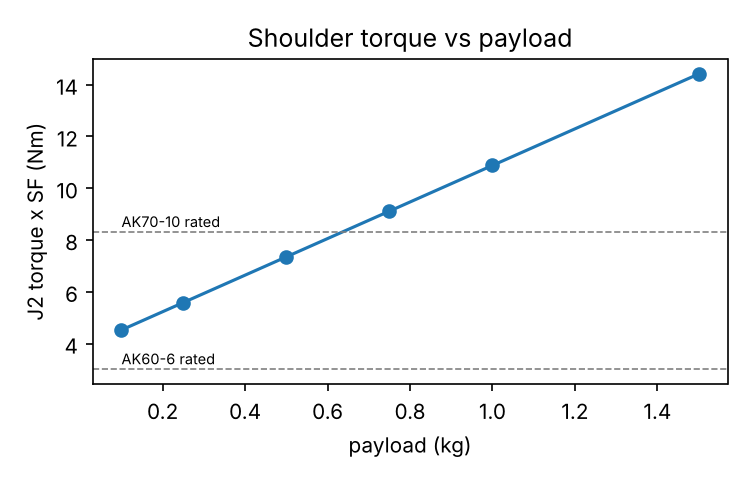
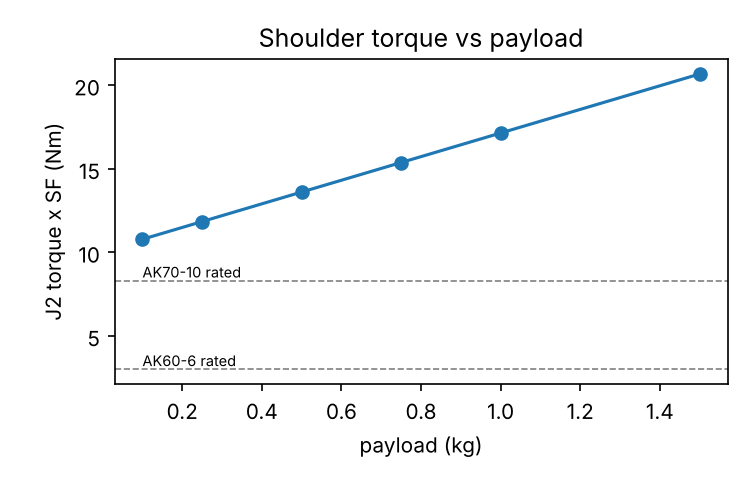
Switch to integrated-driver modules: AKH70-16 for J1-J3, AK45-36 V3 for the wrist

diff --git a/analysis/run_analysis.py b/analysis/run_analysis.py
@@ -19,7 +19,11 @@ ROOT = os.path.join(os.path.dirname(__file__), "..")
 IMG = os.path.join(ROOT, "docs", "img")
 os.makedirs(IMG, exist_ok=True)
 SF = 1.5
-LOW_BACKLASH = {2: 10, 3: 10}   # arcmin limit for the big joints (that is where it hurts)
+MAX_BACKLASH = 12   # arcmin, for joints that move the tip (J1-J5)
+# Chosen by hand: the hollow-shaft AKH70-16 has dual 21-bit encoders (one on the
+# output side), 3x torque margin and a 7 mm bore for cables. The wrist is picked
+# by the search below (lightest module that is strong enough and low backlash).
+PREFERRED = {1: "CubeMars AKH70-16", 2: "CubeMars AKH70-16", 3: "CubeMars AKH70-16"}
 ALPHA = 5.0
 JOINTS = ["J1", "J2", "J3", "J4", "J5", "J6"]
 
@@ -33,11 +37,11 @@ def workspace(n=60_000, seed=0):
 
 
 def pick(need_rated, need_peak, max_backlash=None):
-    """Lightest actuator whose rated torque covers the holding need and whose
-    peak torque covers the static+dynamic need. With max_backlash set, only
-    actuators with a known backlash at or below it (arcmin) are considered."""
+    """Lightest module with an integrated driver whose rated torque covers the
+    holding need and whose peak torque covers the static+dynamic need. With
+    max_backlash set, only parts with a known backlash at or below it (arcmin)."""
     ok = [(v["mass"], k) for k, v in ACTUATORS.items()
-          if v["rated"] >= need_rated and v["peak"] >= need_peak
+          if v["driver"] and v["rated"] >= need_rated and v["peak"] >= need_peak
           and (max_backlash is None
                or (v["backlash"] is not None and v["backlash"] <= max_backlash))]
     return min(ok)[1] if ok else "none in table"
@@ -46,12 +50,14 @@ def pick(need_rated, need_peak, max_backlash=None):
 def select_actuators(g, payload=0.5, iters=8):
     """Pick actuators for J2..J5, feed their masses back into the model and
     repeat until the choice stops changing (heavier motor -> more load)."""
-    choice = {}
+    choice = dict(PREFERRED)
     for _ in range(iters):
         mass = {j: ACTUATORS[c]["mass"] for j, c in choice.items() if c in ACTUATORS}
         comps = build_components(g, payload=payload, act_mass=mass)
         st, sd, _ = dyn.worst_case(n=4000, alpha=ALPHA, comps=comps, seed=7)
-        new = {j + 1: pick(st[j] * SF, sd[j] * SF, LOW_BACKLASH.get(j + 1)) for j in range(1, 6)}
+        new = dict(PREFERRED)
+        for j in range(3, 6):    # J4..J6
+            new[j + 1] = pick(st[j] * SF, sd[j] * SF, MAX_BACKLASH if j < 5 else None)
         if new == choice:
             break
         choice = new
@@ -69,7 +75,7 @@ def main():
                "approximate, see `analysis/actuators.py`.\n")
     out.append(f"- Geometry: d1={g.d1*1e3:.0f} mm, a2={g.a2*1e3:.0f} mm, d4={g.d4*1e3:.0f} mm, "
                f"d6={g.d6*1e3:.0f} mm  ->  max reach from shoulder {1e3*(g.a2+g.d4+g.d6):.0f} mm")
-    out.append(f"- Backlash requirement: J2 and J3 must have a known backlash of at most {LOW_BACKLASH[2]} arcmin")
+    out.append(f"- Only modules with an integrated driver are considered; J1-J5 need a known backlash of at most {MAX_BACKLASH} arcmin")
     out.append(f"- Total moving mass in the model: {dyn.total_mass(comps):.2f} kg "
                f"(payload {[c.mass for c in comps if c.name=='payload'][0]} kg)\n")
 
@@ -80,12 +86,14 @@ def main():
                f"and a local refinement. Dynamic = static + M(q)*alpha with alpha = {ALPHA} rad/s^2 "
                f"on every joint, safety factor {SF}. Actuator masses were fed back into the model "
                f"until the selection stopped changing.\n")
-    out.append("| Joint | static (Nm) | static+dyn (Nm) | rated needed (Nm) | peak needed (Nm) | lightest candidate |")
-    out.append("|---|---|---|---|---|---|")
+    out.append("| Joint | static (Nm) | static+dyn (Nm) | rated needed (Nm) | peak needed (Nm) | actuator | rated margin |")
+    out.append("|---|---|---|---|---|---|---|")
     for j in range(6):
         need_rated, need_peak = st[j] * SF, sd[j] * SF
-        cand = choice[j + 1] if j in (1, 2, 3, 4) else "not sized (needs link inertia)"
-        out.append(f"| {JOINTS[j]} | {st[j]:.2f} | {sd[j]:.2f} | {need_rated:.2f} | {need_peak:.2f} | {cand} |")
+        cand = choice[j + 1]
+        rated = ACTUATORS[cand]["rated"]
+        margin = f"{rated / need_rated:.1f}x" if need_rated > 0.05 else "n/a (point-mass model)"
+        out.append(f"| {JOINTS[j]} | {st[j]:.2f} | {sd[j]:.2f} | {need_rated:.2f} | {need_peak:.2f} | {cand} | {margin} |")
     out.append("")
     out.append("J1 and J6 are listed from the point-mass model only: link rotational inertia "
                "is ignored, so their numbers are a lower bound. J1 also sees the whole arm's inertia "
@@ -100,12 +108,12 @@ def main():
     out.append("Full backlash range of each joint turned into TCP displacement (mm) with the "
                "position Jacobian, over 3000 random poses plus the stretched-out pose. "
                f"Joints without a datasheet figure use an assumed {ASSUMED_BACKLASH_ARCMIN} arcmin "
-               "(marked *). J1 uses the same part as J2.\n")
+               "(marked *).\n")
     out.append("| Joint | actuator | backlash (arcmin) | stretched pose (mm) | worst pose (mm) | median (mm) |")
     out.append("|---|---|---|---|---|---|")
     for j in range(6):
-        name = choice.get(j + 1) or ("(same as J2)" if j == 0 else "n/a")
-        known = ACTUATORS.get(choice.get(j + 1) or choice.get(2), {}).get("backlash") is not None
+        name = choice.get(j + 1) or "n/a"
+        known = ACTUATORS.get(choice.get(j + 1), {}).get("backlash") is not None
         out.append(f"| {JOINTS[j]} | {name} | {bl[j]:.0f}{'' if known else '*'} | "
                    f"{sm['stretched'][j]:.2f} | {sm['per_joint_max'][j]:.2f} | {sm['per_joint_median'][j]:.2f} |")
     out.append("")

diff --git a/analysis/actuators.py b/analysis/actuators.py
@@ -1,25 +1,35 @@
-"""Candidate actuators.
+"""Candidate actuators (ready-to-use modules with integrated driver unless noted).
 
 rated = continuous torque, peak = short bursts (Nm), mass in kg,
-backlash in arcmin (None = I don't have a figure).
-`checked`: True means the numbers were cross-checked on vendor/retailer pages,
-False means from memory. Verify everything against the current CubeMars
-datasheet before ordering.
+backlash in arcmin (None = no figure found), driver = driver board inside,
+encoders = what the listings say.
+
+Sources: CubeMars catalogue screenshots (size, weight, peak torque) plus
+retailer listings for the rest. Backlash and rated torque often come from a
+single retailer page, so treat every row as "to be confirmed on the datasheet".
 """
 ACTUATORS = {
-    # low-backlash family, figures from CubeMars/retailer pages
-    "CubeMars AKE80-8":  {"rated": 12.0, "peak": 30.0, "mass": 0.57, "backlash": 9, "checked": True},
-    "CubeMars AKE60-8":  {"rated": 5.0,  "peak": 12.5, "mass": 0.26, "backlash": 9, "checked": True},
-    # older AK series, from memory, backlash not looked up for these ratios
-    "CubeMars AK60-6":   {"rated": 3.0,  "peak": 9.0,  "mass": 0.29, "backlash": None, "checked": False},
-    "CubeMars AK70-10":  {"rated": 8.3,  "peak": 24.8, "mass": 0.52, "backlash": None, "checked": False},
-    "CubeMars AK80-9":   {"rated": 9.0,  "peak": 18.0, "mass": 0.49, "backlash": None, "checked": False},
-    "CubeMars AK10-9":   {"rated": 18.0, "peak": 53.0, "mass": 0.96, "backlash": None, "checked": False},
-    # Dynamixel: stall torque at 12 V used as "peak"; continuous is much lower
-    "Dynamixel XM430-W350": {"rated": 1.4, "peak": 4.1, "mass": 0.082, "backlash": None, "checked": False},
-    "Dynamixel XL430-W250": {"rated": 0.5, "peak": 1.5, "mass": 0.057, "backlash": None, "checked": False},
+    # --- hollow-shaft planetary, dual 21-bit encoders, integrated driver ----
+    "CubeMars AKH70-16": {"rated": 26.0, "peak": 78.0, "mass": 0.879, "backlash": 12,
+                          "driver": True, "encoders": "2x 21-bit (motor + output)", "bore_mm": 7},
+    "CubeMars AKH70-48": {"rated": 74.0, "peak": 222.0, "mass": 1.396, "backlash": None,
+                          "driver": True, "encoders": "?", "bore_mm": 7},
+    # --- AK V3 small, dual encoders, integrated driver ------------------------
+    "CubeMars AK45-36 V3": {"rated": 8.0, "peak": 24.0, "mass": 0.349, "backlash": 12,
+                            "driver": True, "encoders": "2x 16-bit (motor + output)", "bore_mm": 0},
+    "CubeMars AK80-8 KV60": {"rated": 10.0, "peak": 25.0, "mass": 0.57, "backlash": 22.8,
+                             "driver": True, "encoders": "14-bit + 15-bit", "bore_mm": 0},
+    # --- AKA series, single encoder ------------------------------------------
+    "CubeMars AKA60-6": {"rated": 3.0, "peak": 9.0, "mass": 0.46, "backlash": 12,
+                         "driver": True, "encoders": "1 (single)", "bore_mm": 0},
+    "CubeMars AKA10-9": {"rated": 18.0, "peak": 53.0, "mass": 1.06, "backlash": None,
+                         "driver": True, "encoders": "1 (single)", "bore_mm": 0},
+    # --- AKE: lowest backlash but sold WITHOUT driver, so not auto-selected ----
+    "CubeMars AKE80-8": {"rated": 12.0, "peak": 30.0, "mass": 0.57, "backlash": 9,
+                         "driver": False, "encoders": "motor side only (via driver)", "bore_mm": 0},
+    "CubeMars AKE60-8": {"rated": 5.0, "peak": 12.5, "mass": 0.26, "backlash": 9,
+                         "driver": False, "encoders": "?", "bore_mm": 0},
 }
 
 # Used by the error budget when a chosen actuator has no backlash figure.
-# 15 arcmin (0.25 deg) is a guess for small servo gearboxes, not a datasheet value.
 ASSUMED_BACKLASH_ARCMIN = 15

diff --git a/analysis/error_budget.py b/analysis/error_budget.py
@@ -23,11 +23,10 @@ ARCMIN = np.pi / (180 * 60)
 
 
 def backlash_arcmin(choice):
-    """choice: {joint number: actuator name}. J1 is not in the moving-mass
-    selection, so it defaults to the same part as J2."""
+    """choice: {joint number: actuator name}."""
     out = []
     for j in range(1, 7):
-        name = choice.get(j) or choice.get(2)
+        name = choice.get(j)
         b = ACTUATORS.get(name, {}).get("backlash")
         out.append(ASSUMED_BACKLASH_ARCMIN if b is None else b)
     return np.array(out, dtype=float)

diff --git a/docs/results.md b/docs/results.md
@@ -3,21 +3,21 @@
 Design assumptions come from `analysis/params.py`. Actuator numbers are approximate, see `analysis/actuators.py`.
 
 - Geometry: d1=120 mm, a2=200 mm, d4=180 mm, d6=100 mm  ->  max reach from shoulder 480 mm
-- Backlash requirement: J2 and J3 must have a known backlash of at most 10 arcmin
-- Total moving mass in the model: 1.97 kg (payload 0.5 kg)
+- Only modules with an integrated driver are considered; J1-J5 need a known backlash of at most 12 arcmin
+- Total moving mass in the model: 3.73 kg (payload 0.5 kg)
 
 ## Worst-case joint torque
 
 Random search of 30 000 poses inside the joint limits plus the stretched-out pose and a local refinement. Dynamic = static + M(q)*alpha with alpha = 5.0 rad/s^2 on every joint, safety factor 1.5. Actuator masses were fed back into the model until the selection stopped changing.
 
-| Joint | static (Nm) | static+dyn (Nm) | rated needed (Nm) | peak needed (Nm) | lightest candidate |
-|---|---|---|---|---|---|
-| J1 | 0.00 | 1.15 | 0.00 | 1.72 | not sized (needs link inertia) |
-| J2 | 4.90 | 6.56 | 7.35 | 9.84 | CubeMars AKE80-8 |
-| J3 | 2.27 | 3.15 | 3.40 | 4.72 | CubeMars AKE60-8 |
-| J4 | 0.59 | 0.79 | 0.88 | 1.19 | Dynamixel XM430-W350 |
-| J5 | 0.59 | 0.85 | 0.88 | 1.28 | Dynamixel XM430-W350 |
-| J6 | 0.00 | 0.00 | 0.00 | 0.00 | not sized (needs link inertia) |
+| Joint | static (Nm) | static+dyn (Nm) | rated needed (Nm) | peak needed (Nm) | actuator | rated margin |
+|---|---|---|---|---|---|---|
+| J1 | 0.00 | 1.82 | 0.00 | 2.73 | CubeMars AKH70-16 | n/a (point-mass model) |
+| J2 | 9.07 | 11.67 | 13.61 | 17.50 | CubeMars AKH70-16 | 1.9x |
+| J3 | 3.61 | 4.85 | 5.41 | 7.28 | CubeMars AKH70-16 | 4.8x |
+| J4 | 0.59 | 0.79 | 0.88 | 1.19 | CubeMars AK45-36 V3 | 9.1x |
+| J5 | 0.59 | 0.85 | 0.88 | 1.28 | CubeMars AK45-36 V3 | 9.1x |
+| J6 | 0.00 | 0.00 | 0.00 | 0.00 | CubeMars AK45-36 V3 | n/a (point-mass model) |
 
 J1 and J6 are listed from the point-mass model only: link rotational inertia is ignored, so their numbers are a lower bound. J1 also sees the whole arm's inertia about the vertical axis, so treat these two rows as a minimum, not a size.
 
@@ -25,18 +25,18 @@ Rule used: the *rated* (continuous) torque must cover the static holding torque 
 
 ## Tip error from gear backlash
 
-Full backlash range of each joint turned into TCP displacement (mm) with the position Jacobian, over 3000 random poses plus the stretched-out pose. Joints without a datasheet figure use an assumed 15 arcmin (marked *). J1 uses the same part as J2.
+Full backlash range of each joint turned into TCP displacement (mm) with the position Jacobian, over 3000 random poses plus the stretched-out pose. Joints without a datasheet figure use an assumed 15 arcmin (marked *).
 
 | Joint | actuator | backlash (arcmin) | stretched pose (mm) | worst pose (mm) | median (mm) |
 |---|---|---|---|---|---|
-| J1 | (same as J2) | 9 | 1.26 | 1.26 | 0.37 |
-| J2 | CubeMars AKE80-8 | 9 | 1.26 | 1.26 | 0.79 |
-| J3 | CubeMars AKE60-8 | 9 | 0.73 | 0.73 | 0.64 |
-| J4 | Dynamixel XM430-W350 | 15* | 0.00 | 0.44 | 0.36 |
-| J5 | Dynamixel XM430-W350 | 15* | 0.44 | 0.44 | 0.44 |
-| J6 | Dynamixel XL430-W250 | 15* | 0.00 | 0.00 | 0.00 |
+| J1 | CubeMars AKH70-16 | 12 | 1.68 | 1.68 | 0.50 |
+| J2 | CubeMars AKH70-16 | 12 | 1.68 | 1.68 | 1.05 |
+| J3 | CubeMars AKH70-16 | 12 | 0.98 | 0.98 | 0.85 |
+| J4 | CubeMars AK45-36 V3 | 12 | 0.00 | 0.35 | 0.29 |
+| J5 | CubeMars AK45-36 V3 | 12 | 0.35 | 0.35 | 0.35 |
+| J6 | CubeMars AK45-36 V3 | 12 | 0.00 | 0.00 | 0.00 |
 
-All joints combined: worst case (all at the limit, same direction) 3.8 mm, root-sum-square worst 2.0 mm, median 1.2 mm (full range, so roughly half of that as +/- around the commanded position).
+All joints combined: worst case (all at the limit, same direction) 4.7 mm, root-sum-square worst 2.6 mm, median 1.5 mm (full range, so roughly half of that as +/- around the commanded position).
 
 Backlash alone does not meet a 0.5 mm goal, which is why the plan relies on camera feedback for the last step. Link deflection is not in this table yet.
 
@@ -44,12 +44,12 @@ Backlash alone does not meet a 0.5 mm goal, which is why the plan relies on came
 
 | payload (kg) | J2 (Nm) | J3 (Nm) |
 |---|---|---|
-| 0.1 | 4.52 | 1.75 |
-| 0.25 | 5.58 | 2.37 |
-| 0.5 | 7.35 | 3.40 |
-| 0.75 | 9.11 | 4.43 |
-| 1.0 | 10.88 | 5.46 |
-| 1.5 | 14.41 | 7.52 |
+| 0.1 | 10.79 | 3.76 |
+| 0.25 | 11.84 | 4.38 |
+| 0.5 | 13.61 | 5.41 |
+| 0.75 | 15.38 | 6.44 |
+| 1.0 | 17.14 | 7.47 |
+| 1.5 | 20.67 | 9.53 |
 
 ## Workspace and singularities
 

diff --git a/README.md b/README.md
@@ -27,27 +27,29 @@ I wanted one project that covers the whole chain: mechanical design, motor selec
 | Reach | 480 mm from the shoulder (xArm 7 is 700 mm, I went smaller on purpose, see below) |
 | Payload | 0.5 kg plus a 0.2 kg gripper |
 | Repeatability goal | ≲ 0.5 mm, helped by camera feedback |
-| Big joints (J1–J3) | CubeMars AKE80-8 (J1, J2), AKE60-8 (J3): ~9 arcmin backlash |
-| Wrist (J4–J6) | small, light actuators (Dynamixel-class) |
+| J1–J3 | CubeMars AKH70-16 (hollow shaft, integrated driver, dual 21-bit encoders, ~12 arcmin) |
+| Wrist (J4–J6) | CubeMars AK45-36 V3 (integrated driver, dual encoders, ~12 arcmin) |
 | Sensing | wrist camera + AprilTags on the workspace and tools |
 
 Why not 700 mm: the shoulder torque goes up 2–3x with that reach, which means heavier motors, which load the shoulder even more. A bench-top wet lab doesn't need it, and shorter is stiffer.
 
 ## Current numbers
 
-Full tables and plots are in [`docs/results.md`](docs/results.md), generated by `analysis/run_analysis.py`. Summary for the 0.5 kg case (1.5x safety factor, 5 rad/s² acceleration):
+Full tables and plots are in [`docs/results.md`](docs/results.md), generated by `analysis/run_analysis.py`. Summary for the 0.5 kg case (1.5x safety factor, 5 rad/s² acceleration). Only modules with an integrated driver are considered:
 
-| Joint | needs rated | needs peak | pick |
-|---|---|---|---|
-| J2 shoulder | 7.4 Nm | 9.8 Nm | AKE80-8 (12 / 30 Nm) |
-| J3 elbow | 3.4 Nm | 4.7 Nm | AKE60-8 (5 / 12.5 Nm) |
-| J4, J5 | 0.9 Nm | 1.2–1.3 Nm | XM430-class |
+| Joint | needs rated | needs peak | pick | rated margin |
+|---|---|---|---|---|
+| J2 shoulder | 13.6 Nm | 17.5 Nm | AKH70-16 (26 / 78 Nm) | 1.9x |
+| J3 elbow | 5.4 Nm | 7.3 Nm | AKH70-16 | 4.8x |
+| J4, J5 | 0.9 Nm | 1.2–1.3 Nm | AK45-36 V3 (8 / 24 Nm) | 9x |
 
-J2 and J3 are picked from the low-backlash CubeMars AKE family (about 9 arcmin). Rated torque margin is about 60 % at the shoulder and 45 % at the elbow.
+Why the AKH70-16 for the big joints: output-side encoder, hollow 7 mm bore for cables, integrated driver, and plenty of torque. The price is weight: the model's total moving mass went from about 2.0 kg to 3.7 kg, and the shoulder load roughly doubled compared to my first lightweight pick. That is the trade-off I'm keeping an eye on. J3 could drop to an AK45-36 V3 (349 g instead of 879 g, rated margin about 1.5x) if the shoulder gets tight.
+
+Earlier I considered the AKE series (about 9 arcmin) but it is sold without a driver, so it needs a separate driver board per joint. Not worth the extra wiring for 3 arcmin.
 
 ## Backlash and tip error
 
-9 arcmin at the shoulder is about 1.3 mm at the tip with the arm stretched out. Adding all joints, the worst case is a few mm, the typical case about 1 mm (full range, see `docs/results.md`). That alone doesn't reach the 0.5 mm goal, so the plan is camera feedback for the last step. Wrist backlash is an assumed 15 arcmin because I haven't found a datasheet figure.
+12 arcmin at the shoulder is about 1.7 mm at the tip with the arm stretched out. Adding all joints, the worst case is a few mm and the typical case about 1.5 mm (full range, see `docs/results.md`). That alone doesn't reach the 0.5 mm goal, so the plan is camera feedback for the last step. The 12 arcmin figures come from single retailer listings and still need to be checked against the datasheet.
 
 ## How I checked the model
 
@@ -66,7 +68,7 @@ The hand-calc test actually caught a bug in my first mass model (the tool frame 
 ## Known limits of the model
 
 - Links are point masses: no rotational inertia, no Coriolis terms. J1 and J6 torques are therefore lower bounds and not sized yet.
-- AKE80-8 and AKE60-8 numbers come from CubeMars/retailer pages, the other actuators are from memory. Check the datasheets before ordering.
+- Actuator numbers come from CubeMars catalogue pages and retailer listings (backlash and rated torque often from a single listing). Check the datasheets before ordering.
 - Link structure masses (0.12 and 0.10 kg) are guesses until the CAD exists.
 - No table or self-collision check, so the workspace plot includes poses below the base plate.
 - Random search for the worst case, plus the obvious stretched pose and a local refinement. Not a proof of the global maximum.
